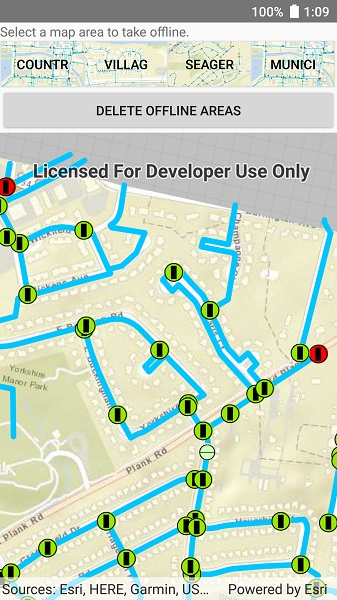
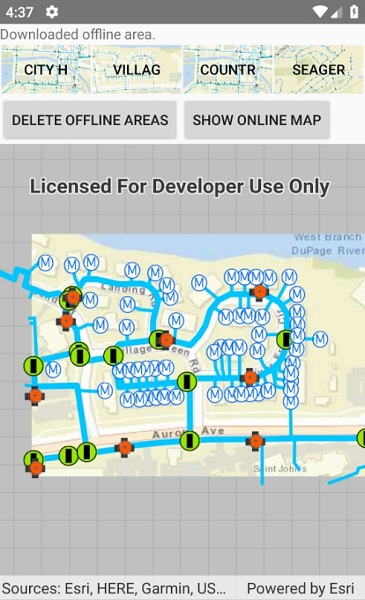
Added Android

diff --git a/src/Android/Xamarin.Android/Samples/Map/DownloadPreplannedMap/DownloadPreplannedMap.cs b/src/Android/Xamarin.Android/Samples/Map/DownloadPreplannedMap/DownloadPreplannedMap.cs
@@ -3,16 +3,14 @@
 // Licensed under the Apache License, Version 2.0 (the "License"); you may not use this file except in compliance with the License.
 // You may obtain a copy of the License at: http://www.apache.org/licenses/LICENSE-2.0
 //
-// Unless required by applicable law or agreed to in writing, software distributed under the License is distributed on an 
-// "AS IS" BASIS, WITHOUT WARRANTIES OR CONDITIONS OF ANY KIND, either express or implied. See the License for the specific 
+// Unless required by applicable law or agreed to in writing, software distributed under the License is distributed on an
+// "AS IS" BASIS, WITHOUT WARRANTIES OR CONDITIONS OF ANY KIND, either express or implied. See the License for the specific
 // language governing permissions and limitations under the License.
 
-using Android;
 using Android.App;
 using Android.Graphics;
 using Android.Graphics.Drawables;
 using Android.OS;
-using Android.Support.V4.App;
 using Android.Widget;
 using ArcGISRuntime.Samples.Managers;
 using Esri.ArcGISRuntime.Data;
@@ -44,6 +42,7 @@ namespace ArcGISRuntimeXamarin.Samples.DownloadPreplannedMap
         private AlertDialog _progressView;
         private ProgressBar _progressBar;
         private TextView _helpLabel;
+        private Button _showOnlineButton;
 
         // ID of a web map with preplanned map areas.
         private const string PortalItemId = "acc027394bc84c2fb04d1ed317aac674";
@@ -59,6 +58,9 @@ namespace ArcGISRuntimeXamarin.Samples.DownloadPreplannedMap
 
         // Hold a list of available map areas.
         private readonly List<PreplannedMapArea> _mapAreas = new List<PreplannedMapArea>();
+
+        // Most recently opened map package.
+        private MobileMapPackage _mobileMapPackage;
 
         protected override void OnCreate(Bundle bundle)
         {
@@ -76,8 +78,6 @@ namespace ArcGISRuntimeXamarin.Samples.DownloadPreplannedMap
             {
                 // The data manager provides a method to get a suitable offline data folder.
                 _offlineDataFolder = Path.Combine(DataManager.GetDataFolder(), "SampleData", "DownloadPreplannedMapAreas");
-
-                
 
                 // If temporary data folder doesn't exists, create it.
                 if (!Directory.Exists(_offlineDataFolder))
@@ -122,8 +122,20 @@ namespace ArcGISRuntimeXamarin.Samples.DownloadPreplannedMap
             }
         }
 
+        private void ShowOnlineClick(object sender, EventArgs e)
+        {
+            // Show the map.
+            _myMapView.Map = _originalMap;
+
+            // Disable the button.
+            _showOnlineButton.Enabled = false;
+        }
+
         private async Task DownloadMapAreaAsync(PreplannedMapArea mapArea)
         {
+            // Close the current mobile package.
+            _mobileMapPackage?.Close();
+
             // Set up UI for downloading.
             _progressBar.SetProgress(0, false);
             _progressView.SetMessage("Downloading map area...");
@@ -138,10 +150,10 @@ namespace ArcGISRuntimeXamarin.Samples.DownloadPreplannedMap
                 try
                 {
                     // Open the offline map package.
-                    MobileMapPackage localMapArea = await MobileMapPackage.OpenAsync(path);
+                    _mobileMapPackage = await MobileMapPackage.OpenAsync(path);
 
                     // Open the first map in the package.
-                    _myMapView.Map = localMapArea.Maps.First();
+                    _myMapView.Map = _mobileMapPackage.Maps.First();
 
                     // Update the UI.
                     _progressView.SetMessage("");
@@ -159,6 +171,9 @@ namespace ArcGISRuntimeXamarin.Samples.DownloadPreplannedMap
             // Create download parameters.
             DownloadPreplannedOfflineMapParameters parameters = await _offlineMapTask.CreateDefaultDownloadPreplannedOfflineMapParametersAsync(mapArea);
 
+            // Set the update mode to not receive updates.
+            parameters.UpdateMode = PreplannedUpdateMode.NoUpdates;
+
             // Create the job.
             DownloadPreplannedOfflineMapJob job = _offlineMapTask.DownloadPreplannedOfflineMap(parameters, path);
 
@@ -169,6 +184,9 @@ namespace ArcGISRuntimeXamarin.Samples.DownloadPreplannedMap
             {
                 // Download the area.
                 DownloadPreplannedOfflineMapResult results = await job.GetResultAsync();
+
+                // Set the update mode to not receive updates.
+                parameters.UpdateMode = PreplannedUpdateMode.NoUpdates;
 
                 // Handle possible errors and show them to the user.
                 if (results.HasErrors)
@@ -195,6 +213,7 @@ namespace ArcGISRuntimeXamarin.Samples.DownloadPreplannedMap
 
                 // Update the UI.
                 _helpLabel.Text = "Downloaded offline area.";
+                _showOnlineButton.Enabled = true;
             }
             catch (Exception ex)
             {
@@ -223,16 +242,6 @@ namespace ArcGISRuntimeXamarin.Samples.DownloadPreplannedMap
             });
         }
 
-        private void DeleteAllAreas()
-        {
-            // Delete all data from the temporary data folder.
-            Directory.Delete(_offlineDataFolder, true);
-            Directory.CreateDirectory(_offlineDataFolder);
-
-            // Update the UI.
-            _helpLabel.Text = "Deleted offline areas.";
-        }
-
         private void DeleteButtonOnClick(object sender, EventArgs e)
         {
             try
@@ -244,14 +253,16 @@ namespace ArcGISRuntimeXamarin.Samples.DownloadPreplannedMap
                 // Reset the map.
                 _myMapView.Map = _originalMap;
 
-                // Wait for the garbage collector to get the hint.
-                // Areas can't be deleted until handles to geodatabase tables are released.
-                GC.Collect();
-                GC.WaitForPendingFinalizers();
-                GC.Collect();
+                // Close the current mobile package.
+                _mobileMapPackage?.Close();
 
-                // Delete everything.
-                DeleteAllAreas();
+                // Delete all data from the temporary data folder.
+                Directory.Delete(_offlineDataFolder, true);
+                Directory.CreateDirectory(_offlineDataFolder);
+
+                // Update the UI.
+                _helpLabel.Text = "Deleted offline areas.";
+                _showOnlineButton.Enabled = false;
             }
             catch (Exception ex)
             {
@@ -268,7 +279,7 @@ namespace ArcGISRuntimeXamarin.Samples.DownloadPreplannedMap
         private void CreateLayout()
         {
             // Create a new vertical layout for the app.
-            LinearLayout layout = new LinearLayout(this) {Orientation = Orientation.Vertical};
+            LinearLayout layout = new LinearLayout(this) { Orientation = Orientation.Vertical };
 
             // Add a help label.
             _helpLabel = new TextView(this);
@@ -276,13 +287,24 @@ namespace ArcGISRuntimeXamarin.Samples.DownloadPreplannedMap
             layout.AddView(_helpLabel);
 
             // Add space for adding options for each map.
-            _mapListView = new LinearLayout(this) {Orientation = Orientation.Horizontal};
+            _mapListView = new LinearLayout(this) { Orientation = Orientation.Horizontal };
             layout.AddView(_mapListView);
 
+            // Create a new layout for the buttons.
+            LinearLayout buttonLayout = new LinearLayout(this) { Orientation = Orientation.Horizontal };
+
             // Add button for deleting map areas.
-            Button deleteButton = new Button(this) {Text = "Delete offline areas"};
+            Button deleteButton = new Button(this) { Text = "Delete offline areas" };
             deleteButton.Click += DeleteButtonOnClick;
-            layout.AddView(deleteButton);
+            buttonLayout.AddView(deleteButton);
+
+            // Add button for showing the original map.
+            _showOnlineButton = new Button(this) { Text = "Show online map", Enabled = false };
+            _showOnlineButton.Click += ShowOnlineClick;
+            buttonLayout.AddView(_showOnlineButton);
+
+            // Add the buttons to the layout.
+            layout.AddView(buttonLayout);
 
             // Add the map view to the layout.
             _myMapView = new MapView(this);
@@ -311,10 +333,18 @@ namespace ArcGISRuntimeXamarin.Samples.DownloadPreplannedMap
                 mapButton.Click += async (o, e) => { await DownloadMapAreaAsync(mapArea); };
                 _mapListView.AddView(mapButton);
 
-                LinearLayout.LayoutParams lparams = (LinearLayout.LayoutParams) mapButton.LayoutParameters;
+                LinearLayout.LayoutParams lparams = (LinearLayout.LayoutParams)mapButton.LayoutParameters;
                 lparams.SetMargins(5, 5, 0, 5);
                 mapButton.LayoutParameters = lparams;
             }
+        }
+
+        protected override void OnStop()
+        {
+            base.OnStop();
+
+            // Close the current mobile package.
+            _mobileMapPackage?.Close();
         }
     }
 }
